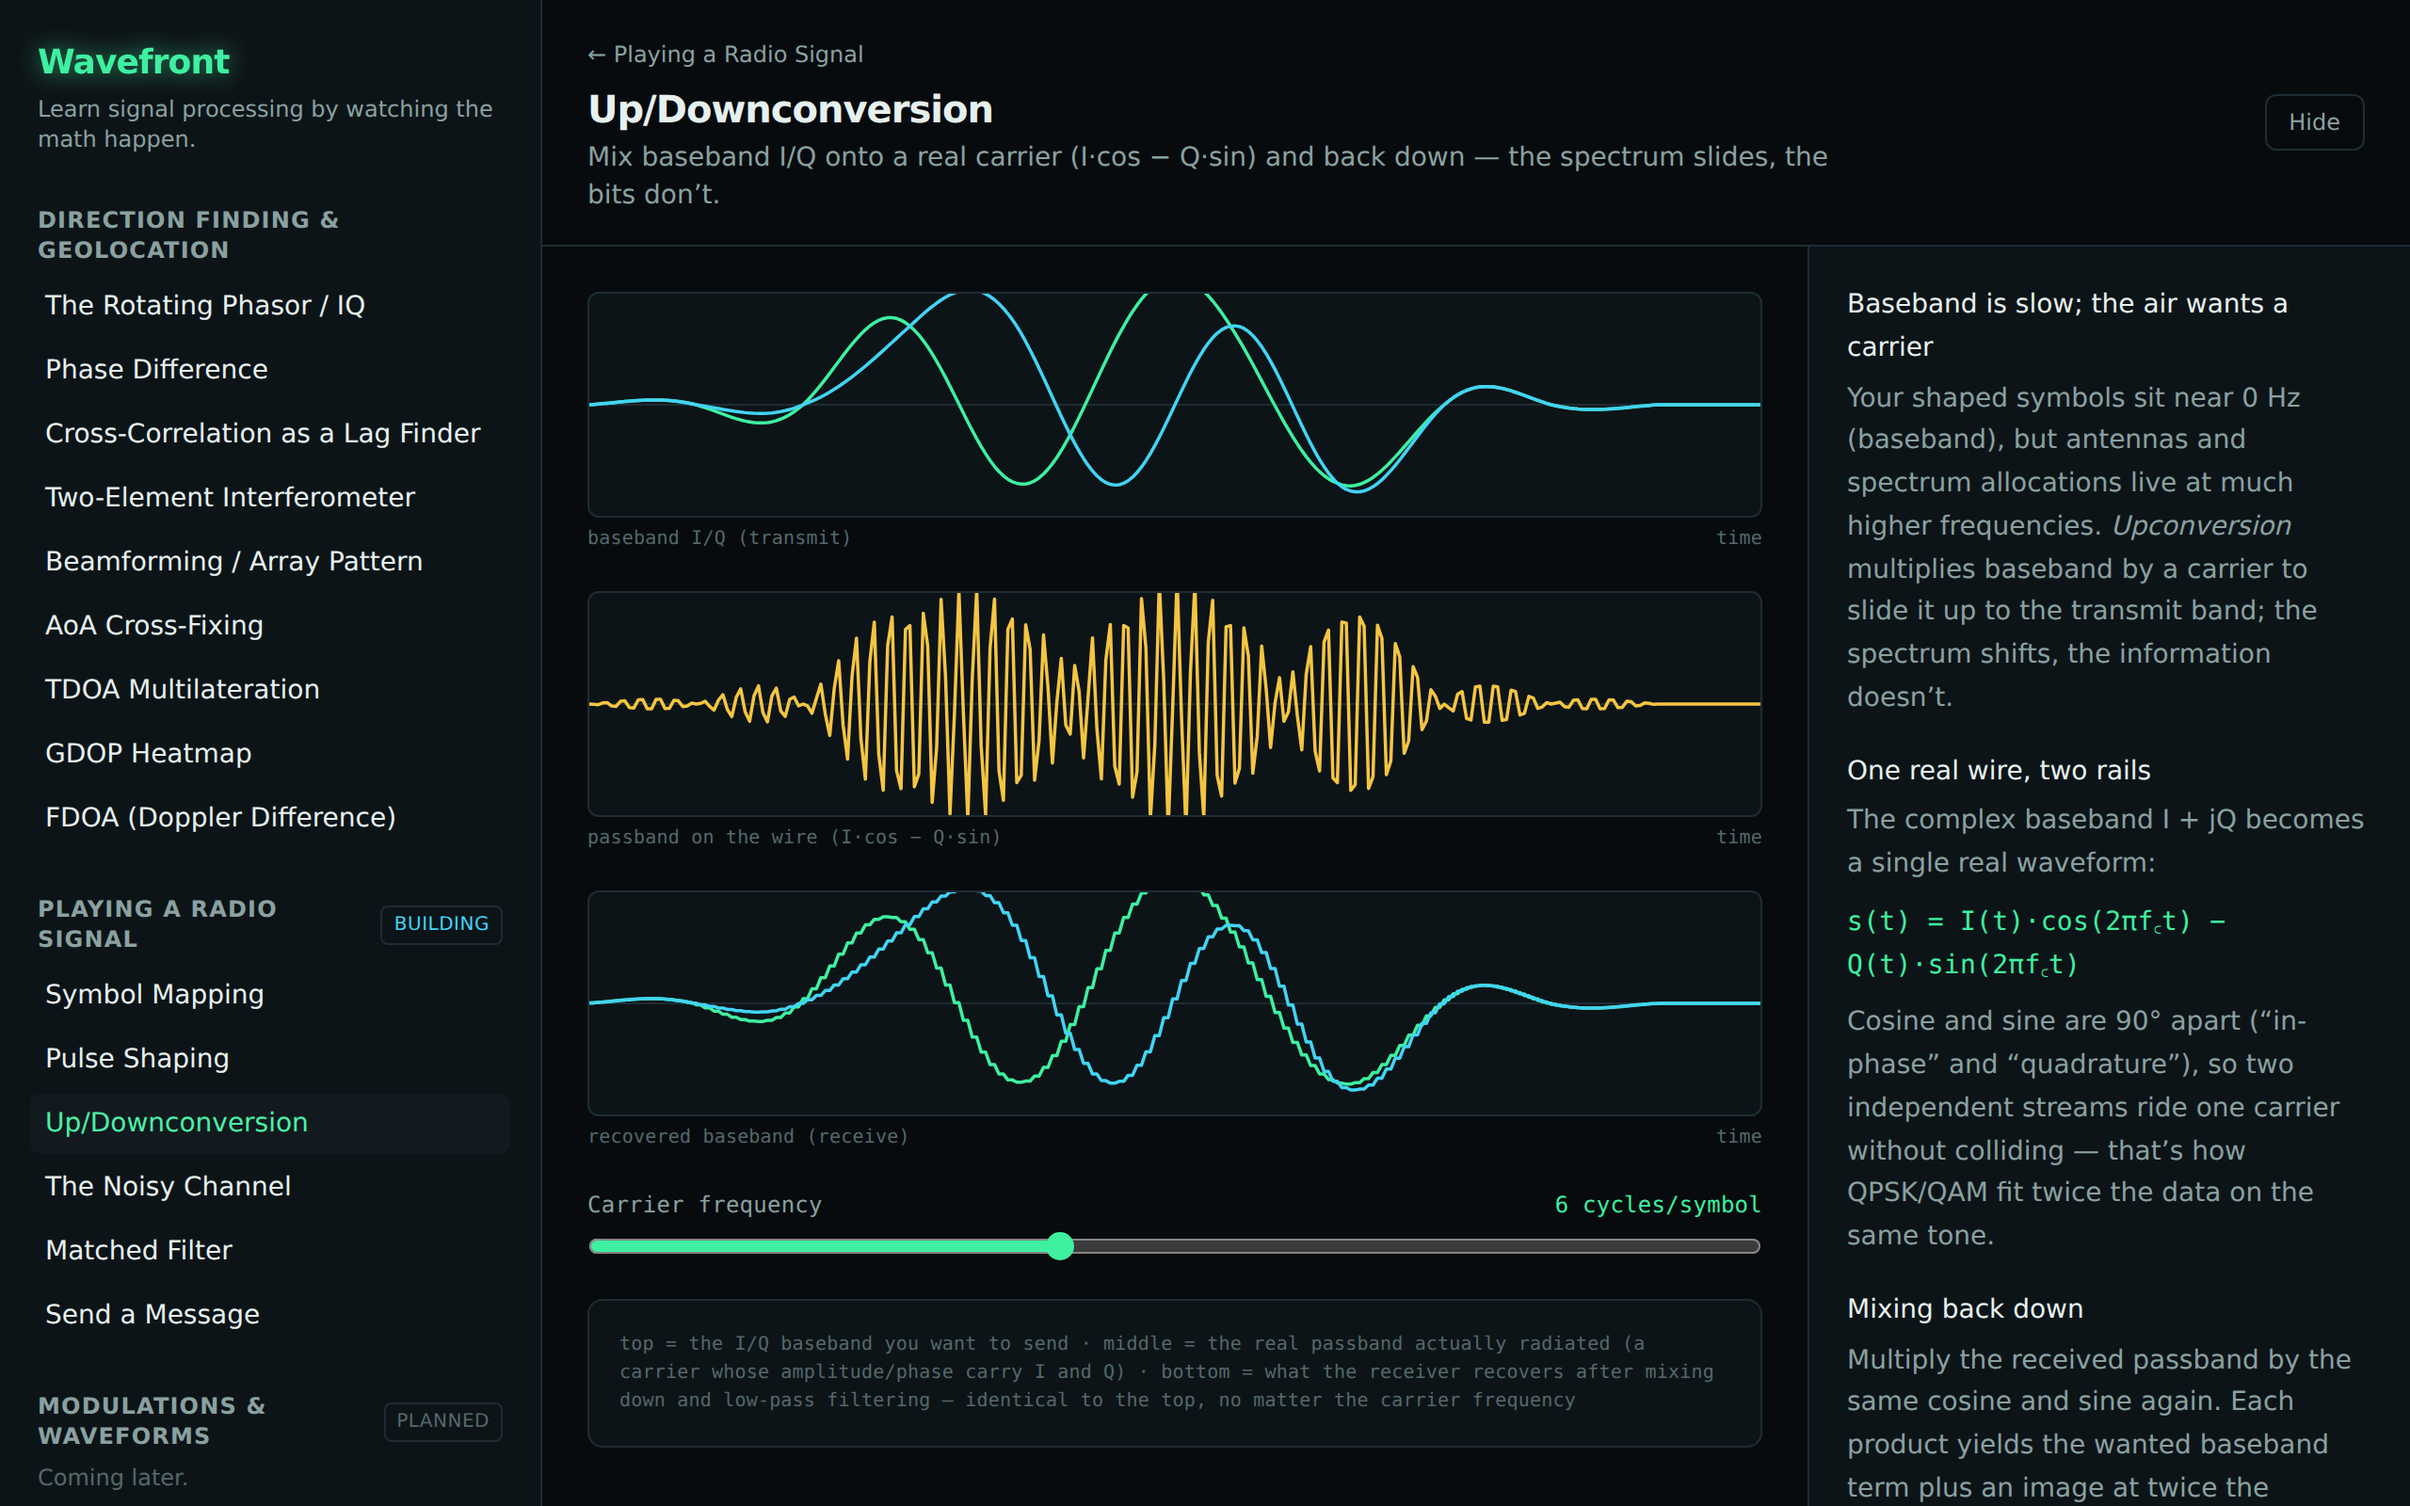
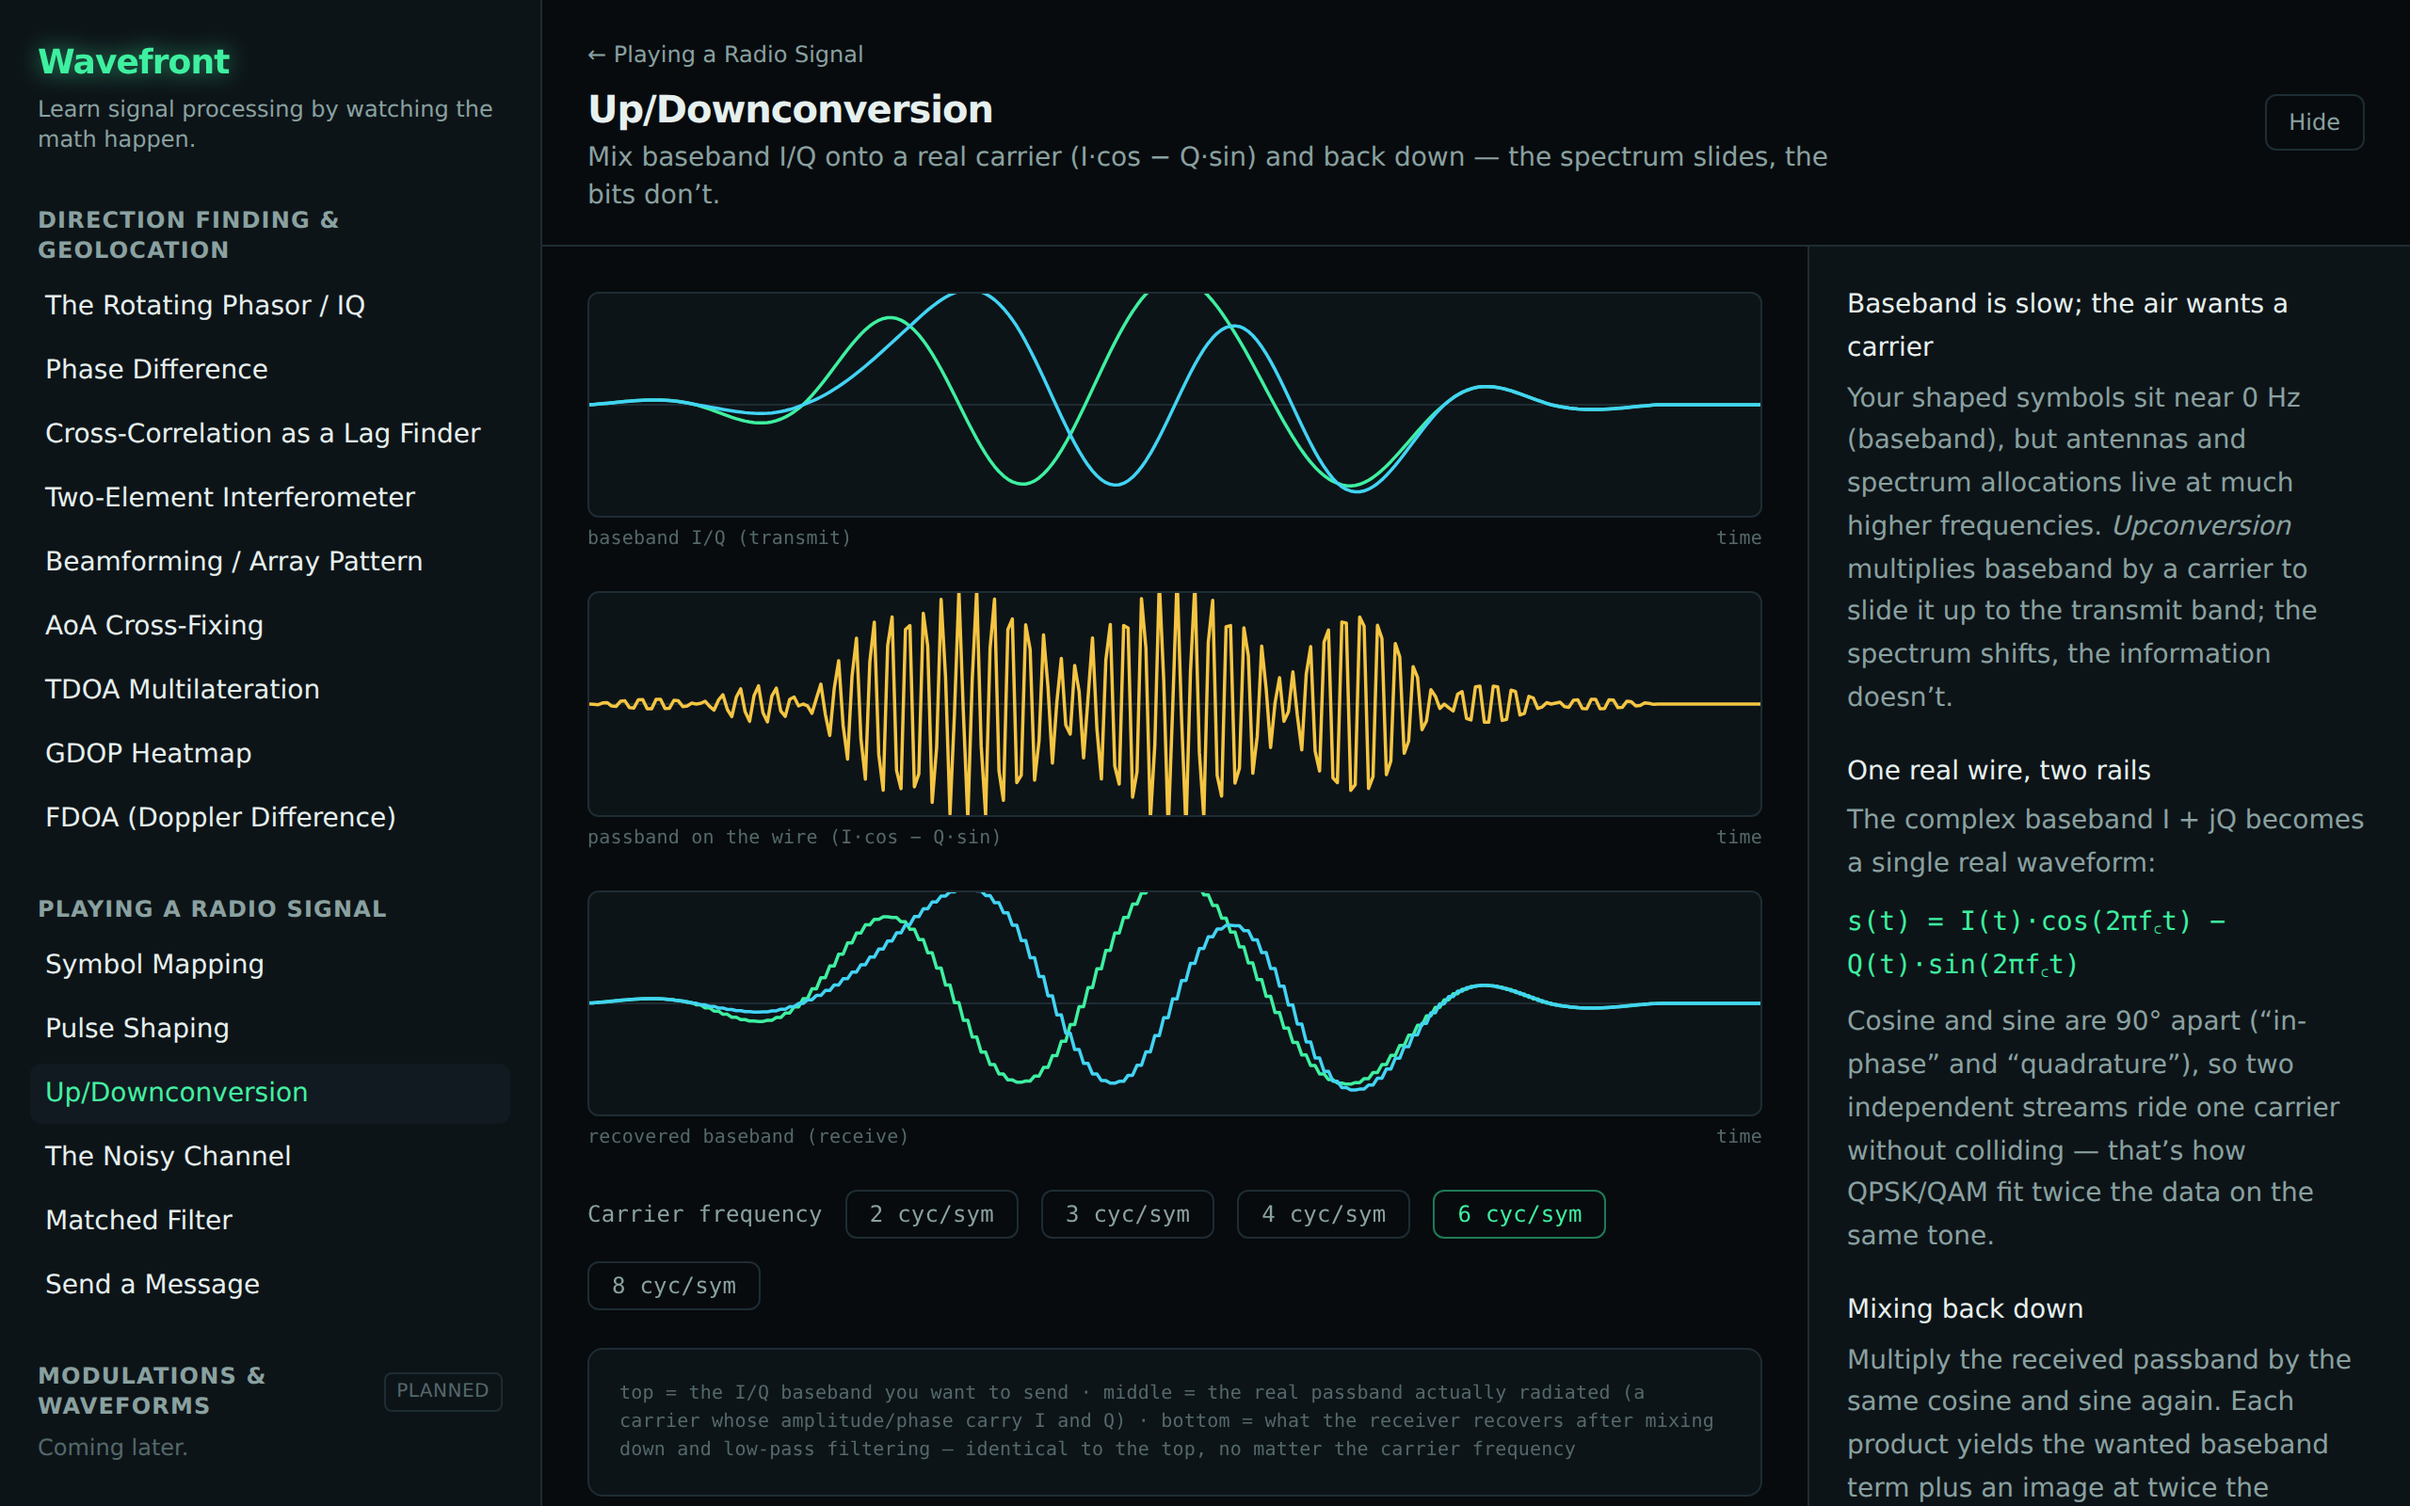
fix(track-b): UTF-8 message encoding + keep carrier below Nyquist
Two Codex P2s:
- comms.ts textToBits/bitsToText now encode via UTF-8 (TextEncoder/TextDecoder)
  instead of masking to the low byte, so non-ASCII messages (emoji/CJK/accents)
  round-trip intact; channel-corrupted bytes decode to the replacement char.
  Added a non-ASCII round-trip test.
- Up/Downconversion: the carrier slider could reach fc = SPS/2 (Nyquist), where
  sin(2π·fc·n/SPS) = 0 at every sample and the Q rail vanished. Replaced it with
  carrier presets [2,3,4,6,8] — each divides SPS (exact low-pass recovery) and
  sits below Nyquist with guard, so recovery is exact at every selectable value.

Regenerated upconversion.png.

diff --git a/src/modules/playing-a-radio-signal/upconversion/UpconversionModule.tsx b/src/modules/playing-a-radio-signal/upconversion/UpconversionModule.tsx
@@ -10,12 +10,16 @@ const SPAN = 6;
 const I_SYMS = [1, -1, 1, 1, -1];
 const Q_SYMS = [1, 1, -1, 1, -1];
 const S = 1 / Math.SQRT2; // unit-energy QPSK rail amplitude
+// Selectable carriers: each divides SPS (so the box low-pass spans whole image periods → exact
+// recovery) and stays below Nyquist (SPS/2 = 12) with guard — at fc = 12 the sine rail samples to
+// zero and Q would be lost.
+const CARRIERS = [2, 3, 4, 6, 8];
 
 /**
  * Up/down-conversion (brief §5, Track B). Baseband I/Q is slow; radios transmit a fast real carrier.
  * The transmitter mixes baseband up — `s = I·cos − Q·sin` — into the single real waveform that goes
  * on the wire; the receiver mixes back down with the same carrier and low-pass filters to recover I
- * and Q unchanged. Slide the carrier frequency and watch the passband tighten while baseband returns.
+ * and Q unchanged. Pick a carrier frequency and watch the passband tighten while baseband returns.
  */
 export function UpconversionModule() {
   const [fc, setFc] = useState(6); // carrier in cycles per symbol
@@ -69,23 +73,24 @@ export function UpconversionModule() {
         xLabel="time"
       />
 
-      <div className="flex flex-wrap items-center gap-6">
-        <label className="flex flex-1 flex-col gap-1.5" style={{ minWidth: 240 }}>
-          <span className="readout flex justify-between text-xs text-text-muted">
-            <span>Carrier frequency</span>
-            <span className="text-signal">{fc} cycles/symbol</span>
-          </span>
-          <input
-            type="range"
-            min={2}
-            max={12}
-            step={1}
-            value={fc}
-            onChange={(e) => setFc(parseInt(e.target.value, 10))}
-            className="accent-[var(--color-signal)]"
-            aria-label="Carrier frequency in cycles per symbol"
-          />
-        </label>
+      <div className="flex flex-wrap items-center gap-3">
+        <span className="readout text-xs text-text-muted">Carrier frequency</span>
+        {CARRIERS.map((c) => (
+          <button
+            key={c}
+            type="button"
+            aria-pressed={c === fc}
+            onClick={() => setFc(c)}
+            className={[
+              'readout rounded-md border px-3 py-1 text-xs transition-colors',
+              c === fc
+                ? 'border-signal-dim text-signal'
+                : 'border-border text-text-muted hover:border-signal-dim',
+            ].join(' ')}
+          >
+            {c} cyc/sym
+          </button>
+        ))}
       </div>
 
       <div className="rounded-lg border border-border bg-surface p-4">

diff --git a/src/dsp/comms.ts b/src/dsp/comms.ts
@@ -143,23 +143,25 @@ export function bitErrorRate(a: number[], b: number[]): number {
   return errors / n;
 }
 
-/** Encode text as a bit stream: each character's low byte, 8 bits MSB-first. */
+/** Encode text as a bit stream: its UTF-8 bytes, 8 bits MSB-first (so any Unicode survives). */
 export function textToBits(text: string): number[] {
+  const bytes = new TextEncoder().encode(text);
   const bits: number[] = [];
-  for (let i = 0; i < text.length; i++) {
-    const code = text.charCodeAt(i) & 0xff;
-    for (let b = 7; b >= 0; b--) bits.push((code >> b) & 1);
+  for (const byte of bytes) {
+    for (let b = 7; b >= 0; b--) bits.push((byte >> b) & 1);
   }
   return bits;
 }
 
-/** Decode a bit stream back to text (inverse of `textToBits`); a trailing partial byte is dropped. */
+/** Decode a UTF-8 bit stream back to text (inverse of `textToBits`); a trailing partial byte is
+ *  dropped, and bytes corrupted by the channel become the Unicode replacement character. */
 export function bitsToText(bits: number[]): string {
-  let out = '';
-  for (let i = 0; i + 8 <= bits.length; i += 8) {
+  const n = Math.floor(bits.length / 8);
+  const bytes = new Uint8Array(n);
+  for (let i = 0; i < n; i++) {
     let code = 0;
-    for (let b = 0; b < 8; b++) code = (code << 1) | bits[i + b];
-    out += String.fromCharCode(code);
+    for (let b = 0; b < 8; b++) code = (code << 1) | bits[i * 8 + b];
+    bytes[i] = code;
   }
-  return out;
+  return new TextDecoder().decode(bytes);
 }

diff --git a/src/dsp/comms.test.ts b/src/dsp/comms.test.ts
@@ -117,6 +117,10 @@ describe('text ↔ bits', () => {
     expect(textToBits('A')).toEqual([0, 1, 0, 0, 0, 0, 0, 1]);
   });
 
+  it('round-trips non-ASCII text via UTF-8', () => {
+    expect(bitsToText(textToBits('héllo · ✓ 北'))).toBe('héllo · ✓ 北');
+  });
+
   it('survives a full text → symbols → text round-trip with no noise', () => {
     const text = 'Wavefront';
     const recovered = bitsToText(symbolsToBits(bitsToSymbols(textToBits(text), QPSK), QPSK));
